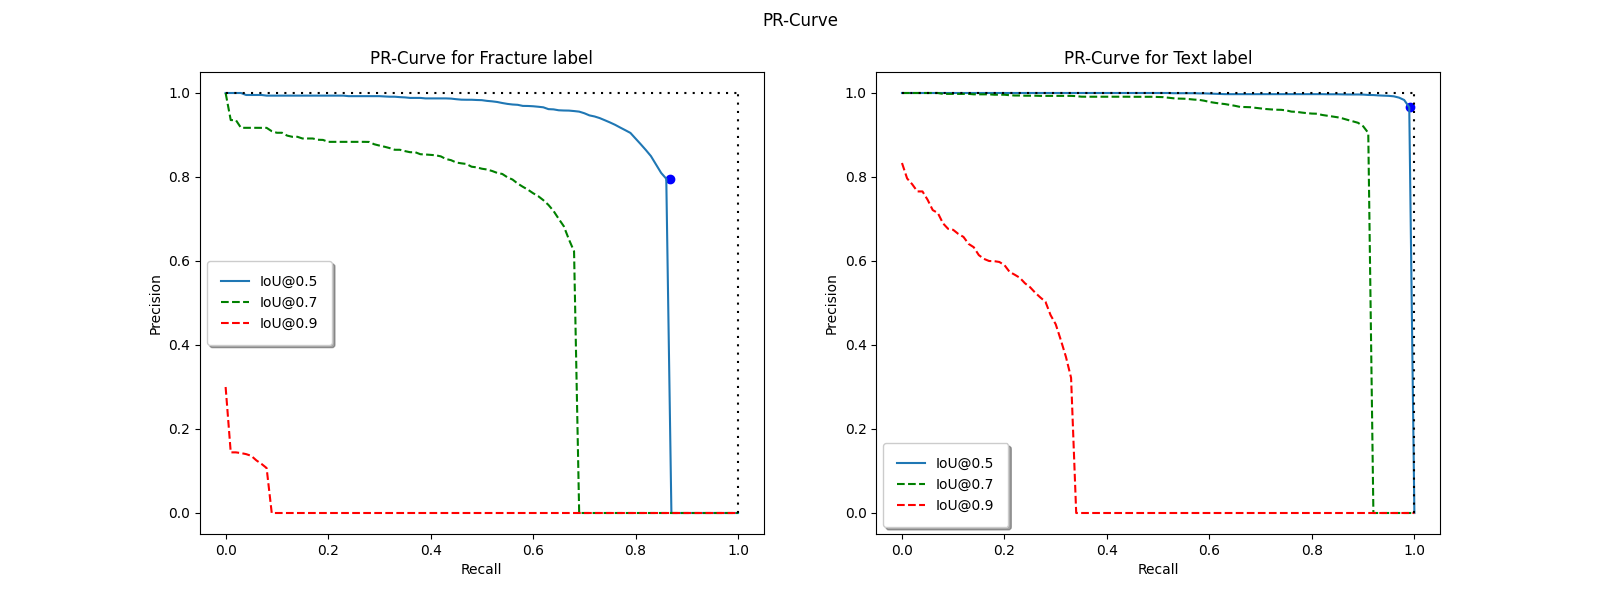
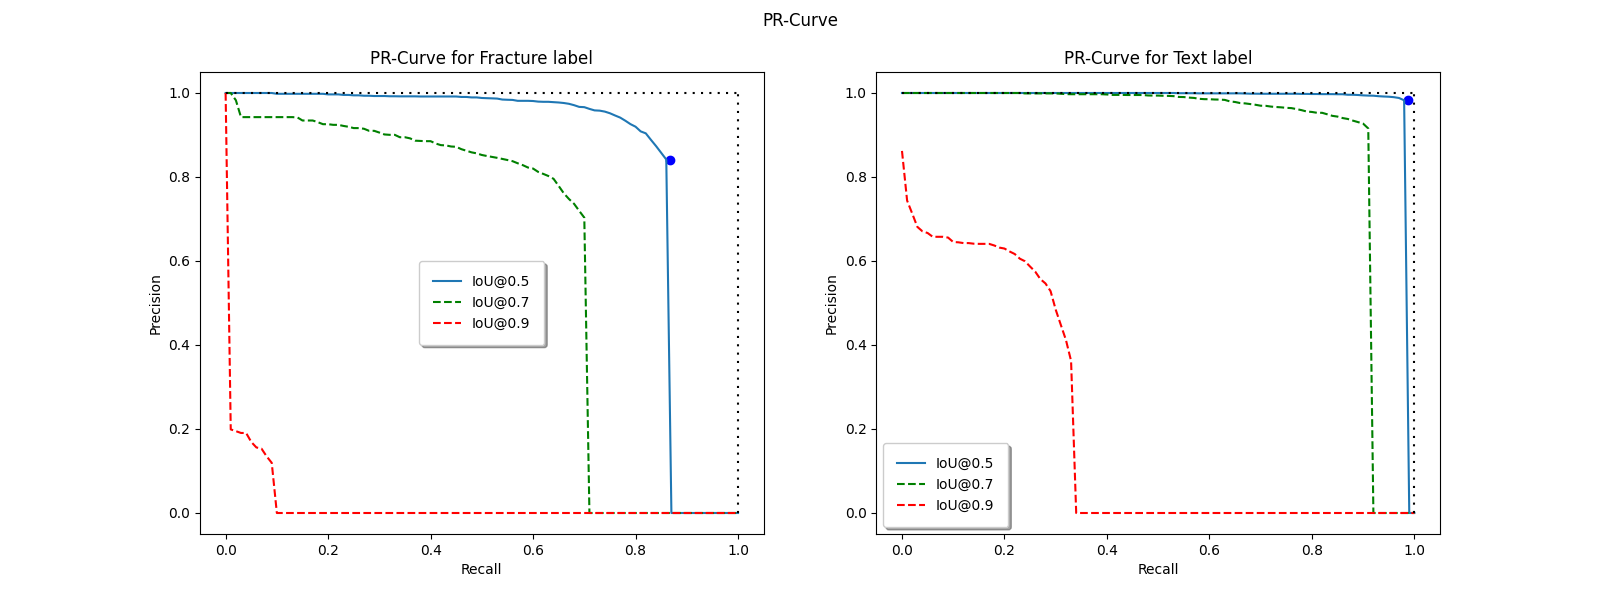
hpc up

diff --git a/src/visualization/test_model_CNN_aug.py b/src/visualization/test_model_CNN_aug.py
@@ -1,0 +1,86 @@
+import cv2
+import os
+import json
+import time
+
+import pathlib
+from torch.utils.data import DataLoader
+import sys
+sys.path.append('../')
+from master_thesis_dtu.src.data.my_rpg_dataset import XRayDataSet
+from master_thesis_dtu.src.data.my_rpg_dataset import collate_fn
+from tqdm import tqdm
+
+#for model
+import torchvision
+from torchvision.models.detection.faster_rcnn import FastRCNNPredictor
+from torchvision.models.detection import FasterRCNN
+from torchvision.models.detection.rpn import AnchorGenerator, RPNHead, RegionProposalNetwork
+import torch
+from src.models.utils import *
+import numpy as np
+from torchvision.ops import box_iou
+from pycocotools.coco import COCO
+from pycocotools.cocoeval import COCOeval
+
+
+def main():
+
+    # train on the GPU or on the CPU, if a GPU is not available
+    if torch.cuda.is_available():    
+        device = torch.device("cuda")
+        print('There are %d GPU(s) available.' % torch.cuda.device_count())
+        print('We will use the GPU:', torch.cuda.get_device_name(0))
+
+    else:
+        print('No GPU available, using the CPU instead.')
+        device = torch.device("cpu")
+
+
+    #defines
+    BatchSize = 1
+    num_workers =4
+
+    score_threshold = 0.7
+    iou_threshold = 0.5
+
+    #load test data
+    test_dataset = XRayDataSet(pathlib.Path('literature/Other/supervisely/wrist/test_pickles'))
+    test_dataloader = DataLoader(test_dataset, batch_size=BatchSize, shuffle=False, num_workers=num_workers,collate_fn=collate_fn)
+
+
+
+    #load the model state
+    model = get_model_instance_segmentation(3)
+    best_model = torch.load(f'Best_val_CNN_Model_aug.pt')
+    model.load_state_dict(best_model['model_state_dict'])
+
+    model.to(device)
+
+
+    print('----------------------Model evaluation started--------------------------')
+
+
+    print('Now we will evaluate the model based on the coco evaluation fucntion')
+
+
+    #load the test coco dataset for the eval
+    # Load the COCO object from a JSON file
+    with open('test_coco_gt.json', 'r') as f:
+        coco_gt_data = json.load(f)
+    coco_gt = COCO()
+    coco_gt.dataset = coco_gt_data
+    coco_gt.createIndex()
+
+    print('Results with confidence = 0.7')
+    validation_loss = testing_step(model,device,test_dataloader,coco_gt,0.7)
+
+
+
+    print('----------------------Model evaluation ended--------------------------')
+
+
+
+
+if __name__ == '__main__':
+    main()

diff --git a/src/models/train_model_CDETR.py b/src/models/train_model_CDETR.py
@@ -52,7 +52,7 @@ def main():
 
     #defines
     NumOfClasses = 2 
-    NumOfEpochs = 5
+    NumOfEpochs = 100
     BatchSize = 16
     num_workers = 5
     checkpoint = "microsoft/conditional-detr-resnet-50"
@@ -141,7 +141,7 @@ def main():
                 'optimizer_state_dict': optimizer.state_dict(),
                 'best_loss': best_loss
             }
-            torch.save(checkpoint,f'Best_val_DETR_Model.pt')
+            torch.save(checkpoint,f'Best_val_CDETR_Model.pt')
             print("Model state saved on epoch: ", (epoch+1))
 
     wandb.finish()
@@ -156,7 +156,7 @@ def main():
         'optimizer_state_dict': optimizer.state_dict(),
         'best_loss': best_loss
     }
-    torch.save(checkpoint,f'Last_DETR_Model.pt')
+    torch.save(checkpoint,f'Last_CDETR_Model.pt')
     print("Model state saved on epoch: ", (epoch+1))
 
 

diff --git a/src/models/train_model.py b/src/models/train_model.py
@@ -37,7 +37,7 @@ def main():
 
     #defines
     NumOfClasses = 3 
-    NumOfEpochs = 50
+    NumOfEpochs = 100
     BatchSize = 16
     num_workers = 5
 
@@ -48,7 +48,7 @@ def main():
         
         # track hyperparameters and run metadata
         config={
-        "learning_rate": 0.01,
+        "learning_rate": 0.005,
         "momentum": 0.9,
         "weight_decay": 0.0005,
         "Gradient_clip": 1,
@@ -76,7 +76,7 @@ def main():
     params = [p for p in model.parameters() if p.requires_grad]
     #optimizer = torch.optim.AdamW(params, lr=0.005, betas=(0.9, 0.999), weight_decay=0.0005)
 
-    optimizer = torch.optim.SGD(params, lr=0.01,momentum=0.9, weight_decay=0.0005)
+    optimizer = torch.optim.SGD(params, lr=0.005,momentum=0.9, weight_decay=0.0005)
 
     train_loss = []
     val_loss = []

diff --git a/src/models/train_model_DETR_fromCheck.py b/src/models/train_model_DETR_fromCheck.py
@@ -51,8 +51,8 @@ def main(best_loss):
 
     #defines
     NumOfClasses = 2 
-    NumOfEpochs = 50
-    BatchSize = 32
+    NumOfEpochs = 60
+    BatchSize = 16
     num_workers = 5
     checkpoint = "facebook/detr-resnet-50"
 

diff --git a/src/models/train_model_DETR.py b/src/models/train_model_DETR.py
@@ -50,7 +50,7 @@ def main():
 
     #defines
     NumOfClasses = 2 
-    NumOfEpochs = 50
+    NumOfEpochs = 150
     BatchSize = 16
     num_workers = 5
     checkpoint = "facebook/detr-resnet-50"
